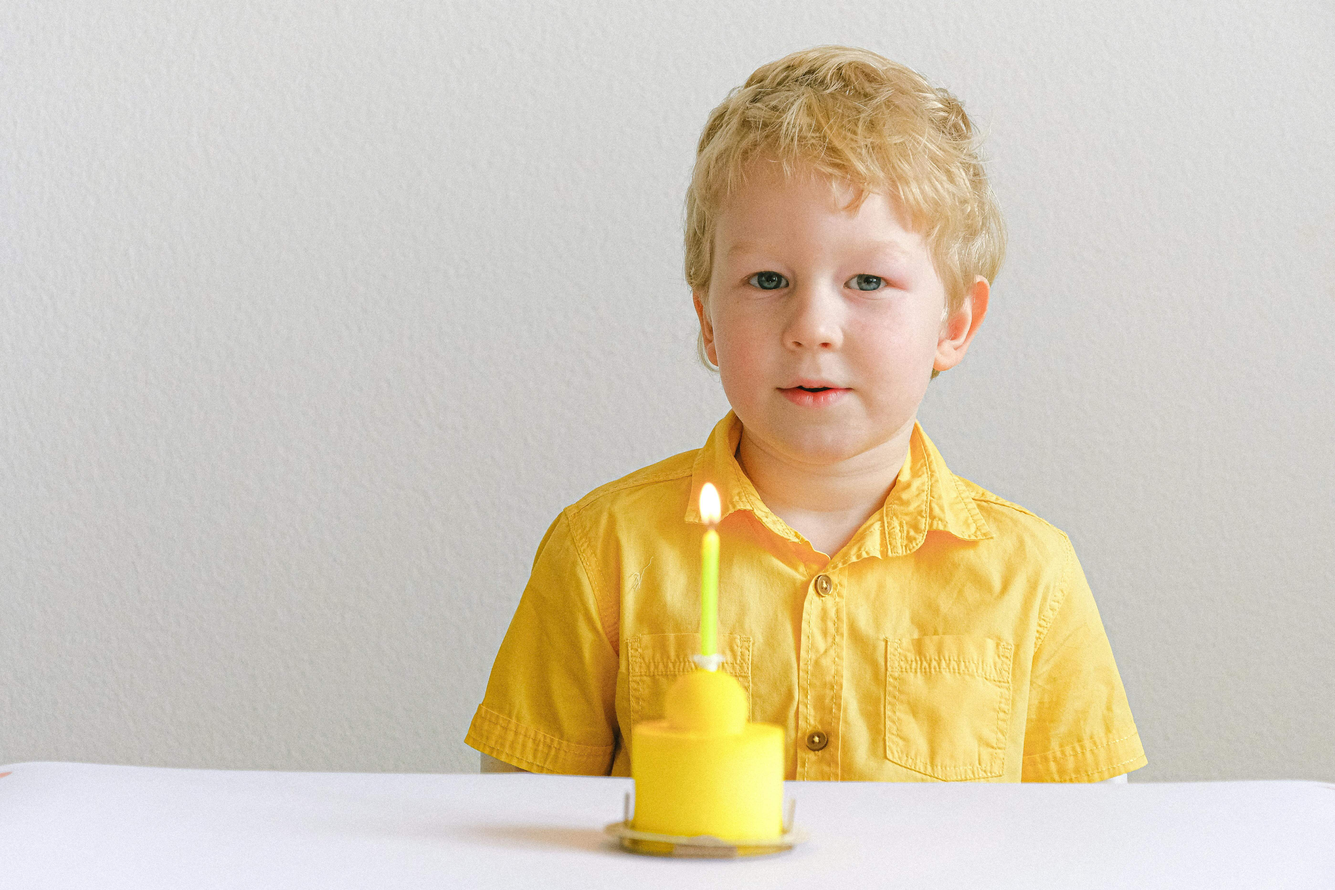
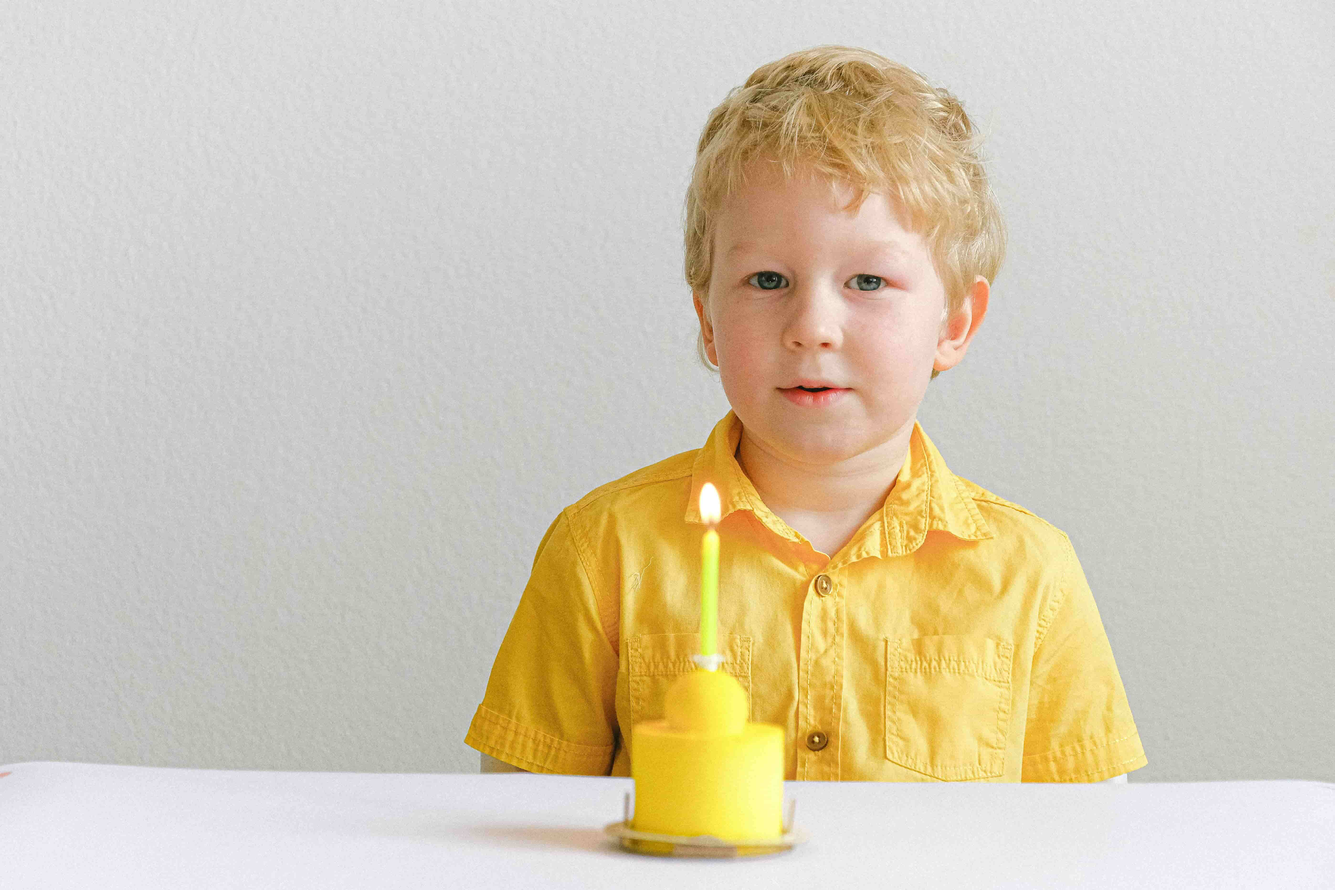
Compressed some images, Added photos to knigi s misiq, ccommit from laptop

Changed region(s): [[0.5911, 0.0622, 0.6222, 0.0933]]

diff --git a/src/routes/tests/2/+page.svelte b/src/routes/tests/2/+page.svelte
@@ -176,8 +176,8 @@
     <div class="books-content">
       <div class="subsection">
         <p class="intro-text">
-          ✨ Понякога има дни, в които се случва магия… и остават завинаги в
-          сърцето. 🧡
+          Понякога има дни, в които се случва магия… и остават завинаги в
+          сърцето.
         </p>
         <p>
           С любезното съдействие и подкрепа на издателство "Или - Мили", на <strong
@@ -206,7 +206,7 @@
         </p>
 
         <h4
-          style="margin-top: 25px; margin-bottom: 15px; color: var(--orange); font-size: 1.2rem;"
+          style="margin-top: 25px; margin-bottom: 15px; color: var(--orange); font-size: 1.25rem;"
         >
           Специални благодарности на:
         </h4>
@@ -214,27 +214,27 @@
           style="margin-bottom: 20px !important; list-style: none; padding-left: 20px;"
         >
           <li style="margin-bottom: 12px;">
-            <strong>🧡 Издателство "Или-Мили"</strong> – за професионализма, отдадеността,
+            <strong>Издателство "Или-Мили"</strong> – за професионализма, отдадеността,
             за всеки изпипан детайл в подготовката и представянето на книгата, както
             и за прекрасните подаръци за всички гости.
           </li>
           <li style="margin-bottom: 12px;">
-            <strong>🧡 Osteria Tartufo</strong> - за уютната атмосфера и топлото
-            гостоприемство, които допринесоха този ден да бъде още по-специален.
+            <strong>Osteria Tartufo</strong> - за уютната атмосфера и топлото гостоприемство,
+            които допринесоха този ден да бъде още по-специален.
           </li>
           <li style="margin-bottom: 12px;">
-            <strong>📸 Evgeni Mishev Photography</strong> - за магията в кадър, за
-            таланта да улавя емоцията и да превръща миговете в незабравими спомени.
+            <strong>Evgeni Mishev Photography</strong> - за магията в кадър, за таланта
+            да улавя емоцията и да превръща миговете в незабравими спомени.
           </li>
           <li style="margin-bottom: 12px;">
-            <strong>📸 Bogdana Ivanova</strong> - за сърцето, вложено във всеки детайл
+            <strong>Bogdana Ivanova</strong> - за сърцето, вложено във всеки детайл
             от събитието, за усмивките и магичните кадри, дакосващи сърцето.
           </li>
           <li style="margin-bottom: 12px;">
-            <strong>🧡 Нашите семейства</strong> – за силата, подкрепата и вярата.
+            <strong>Нашите семейства</strong> – за силата, подкрепата и вярата.
           </li>
           <li>
-            <strong>🧡 Maria-Paola Tuputi</strong> - за съвместната работа и сърцето,
+            <strong>Maria-Paola Tuputi</strong> - за съвместната работа и сърцето,
             вложено в създаването на тази книга.
           </li>
         </ul>
@@ -296,19 +296,19 @@
         <div class="event-images">
           <div class="event-image">
             <img
-              src="/logos/nav-logo.png"
+              src="/pages/knigi-s-misiya/events/1.jpg"
               alt="Представяне на книга - снимка 1"
             />
           </div>
           <div class="event-image">
             <img
-              src="/logos/nav-logo.png"
+              src="/pages/knigi-s-misiya/events/2.jpg"
               alt="Представяне на книга - снимка 2"
             />
           </div>
           <div class="event-image">
             <img
-              src="/logos/nav-logo.png"
+              src="/pages/knigi-s-misiya/events/3.jpg"
               alt="Представяне на книга - снимка 3"
             />
           </div>
@@ -426,7 +426,7 @@
     color: #666;
     line-height: 1.7;
     margin-bottom: 15px;
-    font-size: 1.1rem;
+    font-size: 1.25rem;
   }
 
   .intro-text {
@@ -446,7 +446,7 @@
   .subsection li {
     margin-bottom: 8px;
     position: relative;
-    font-size: 1.1rem;
+    font-size: 1.25rem;
   }
 
   /* ---- 3. Book Images ---- */
@@ -494,7 +494,7 @@
   /* ---- 4. Event Images ---- */
   .event-images {
     display: grid;
-    grid-template-columns: repeat(auto-fit, minmax(280px, 1fr));
+    grid-template-columns: repeat(3, minmax(0, 1fr));
     gap: 20px;
     margin: 30px 0;
   }
@@ -532,7 +532,7 @@
     padding: 14px 28px;
     border-radius: 25px;
     font-weight: 600;
-    font-size: 1.1rem;
+    font-size: 1.25rem;
     box-shadow: 0 4px 15px rgba(247, 162, 116, 0.3);
     transition: all 0.3s ease;
     border: 2px solid var(--orange);
@@ -678,7 +678,7 @@
     } */
 
     .intro-text {
-      font-size: 1.2rem !important;
+      font-size: 1.4em !important;
     }
 
     .books-content {
